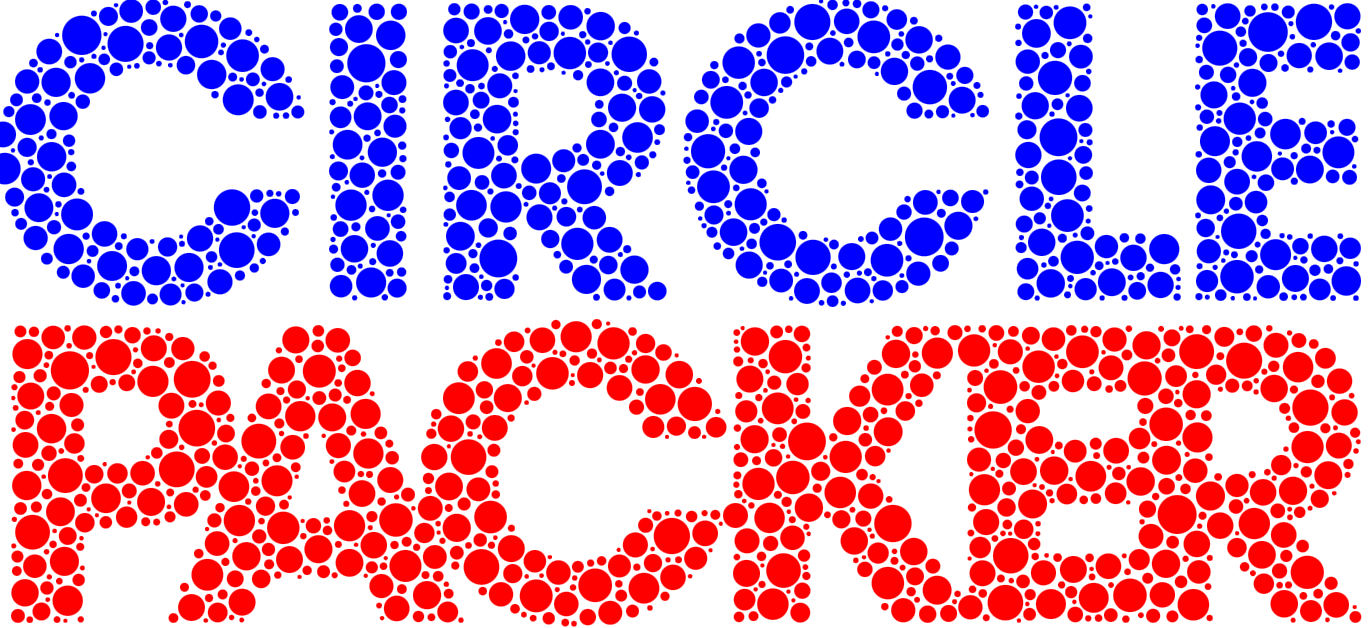
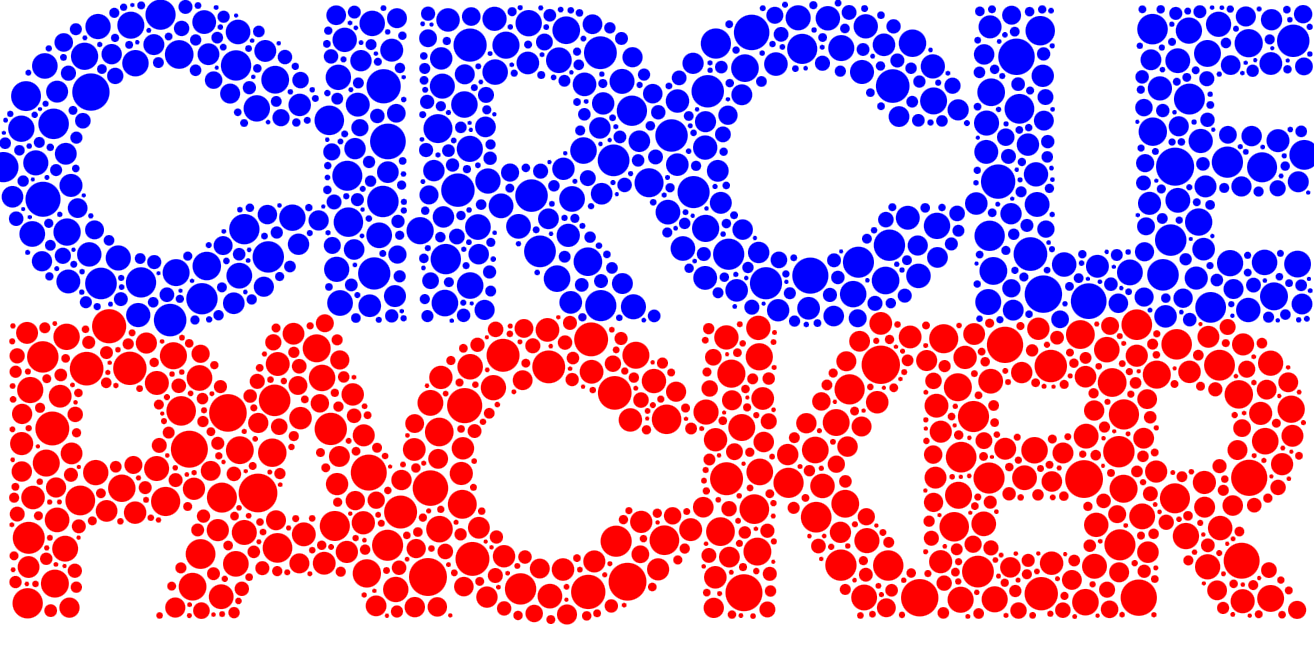
bump version to 0.1.1 and add type exports for Circle, Options, and ExportOptions

diff --git a/dist/index.d.ts b/dist/index.d.ts
@@ -57,4 +57,4 @@ declare function fromSquare(edgeLength?: number, color?: string, options?: Parti
 declare function fromCircle(radius?: number, color?: string, options?: Partial<Options>): CirclePacker;
 declare function fromRect(width?: number, height?: number, color?: string, options?: Partial<Options>): CirclePacker;
 
-export { CirclePacker, fromBlob, fromCanvas, fromCircle, fromContext2D, fromImage, fromImageData, fromRect, fromSquare, fromURL };
+export { type Circle, CirclePacker, type ExportOptions, type Options, fromBlob, fromCanvas, fromCircle, fromContext2D, fromImage, fromImageData, fromRect, fromSquare, fromURL };

diff --git a/test/index.html b/test/index.html
@@ -117,6 +117,11 @@
         row('import', 'fromBlob', instance.asCanvas())
       })
 
+      /*
+        const fu2 = await fromURL('../circle-packer-logo.png', {numCircles: 2500})
+        row('import', 'fromURL', fu2.asCanvas({ scale: 2 }))
+      */
+
       const fu = await fromURL('image.png')
       row('import', 'fromURL', fu.asCanvas({ scale: 1 }))
 

diff --git a/src/index.ts b/src/index.ts
@@ -1,4 +1,7 @@
 import { CirclePacker, fromBlob, fromCanvas, fromCircle, fromContext2D, fromImage, fromImageData, fromRect, fromSquare, fromURL } from './CirclePacker'
+export type { Circle } from './types/Circle'
+export type { Options } from './types/Options'
+export type { ExportOptions } from './types/ExportOptions'
 
 export {
   CirclePacker,
